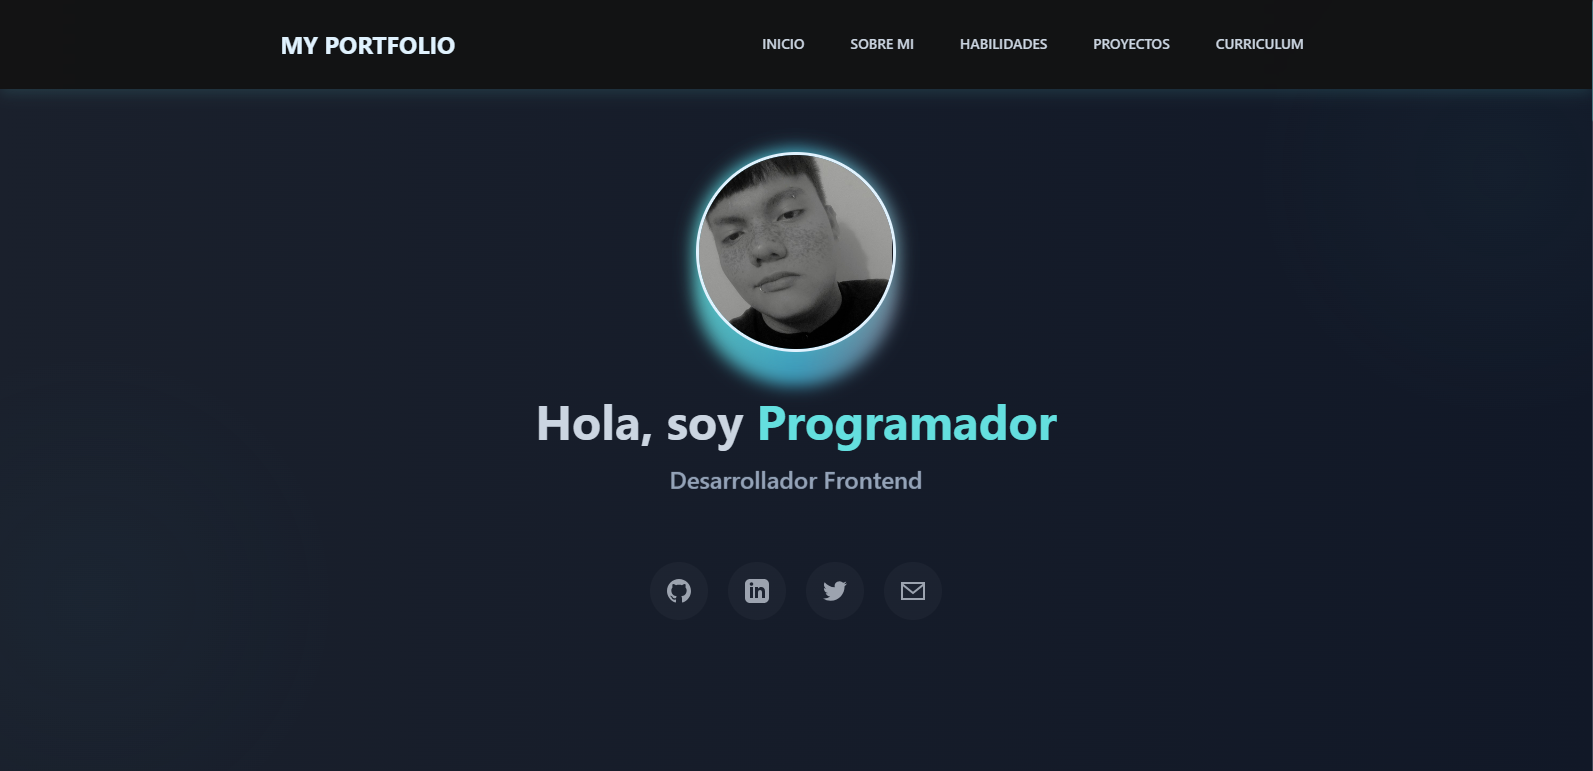
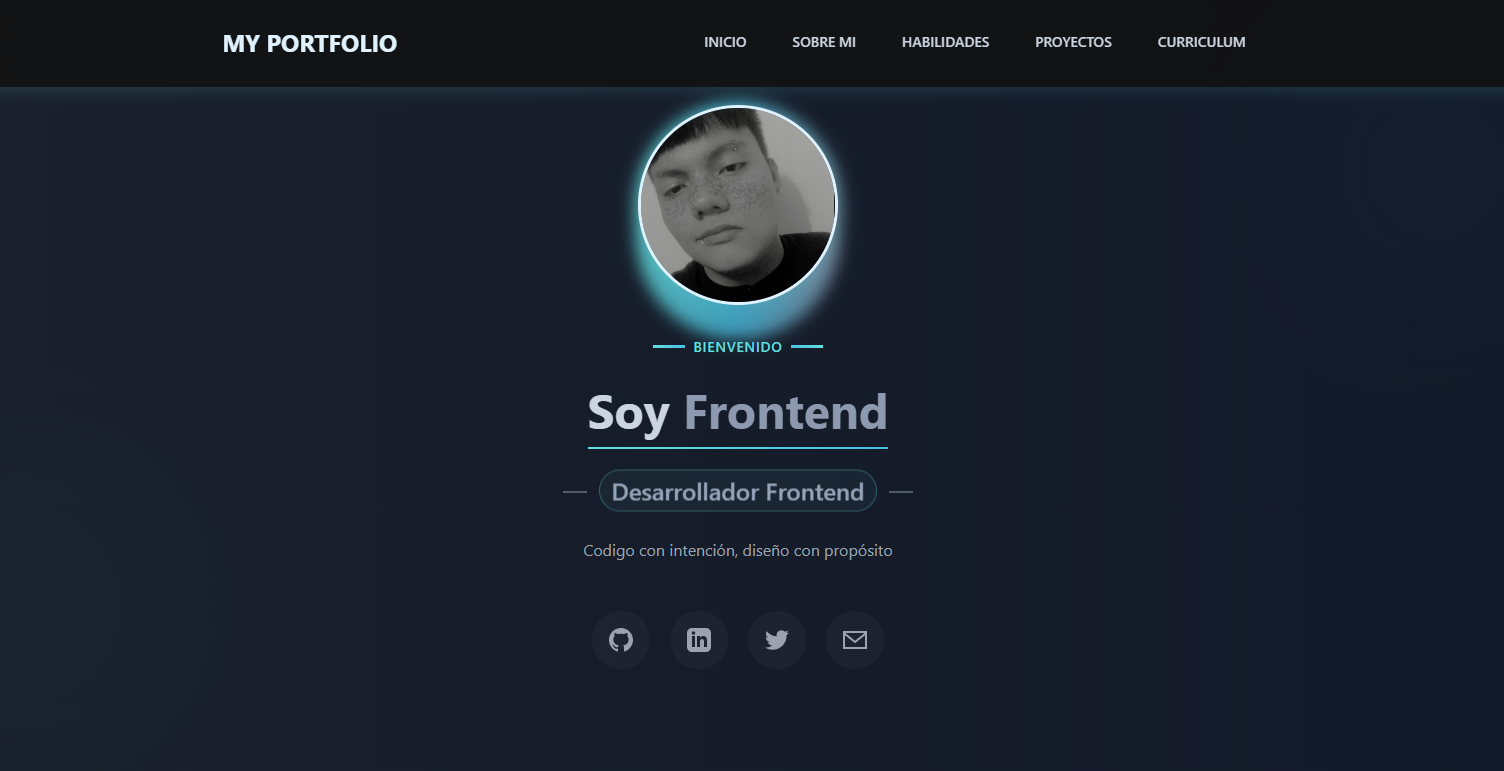
I created the projects section

diff --git a/src/App.jsx b/src/App.jsx
@@ -16,7 +16,7 @@ const ANIMATION_CONFIG = {
 };
 
 const TEXT_ANIMATIONS = [
-  { text: "Programador", color: "#64DFDF" },
+  { text: "Programmer", color: "#64DFDF" },
   { text: "Frontend", color: "#8D99AE" },
   { text: "Juan Jose", color: "#48BFE3" },
 ];
@@ -47,17 +47,17 @@ const SKILLS_DATA = {
 
 const PROJECTS_DATA = [
   {
-    title: "Sitio Web Misak",
-    description: "Un sitio web cultural sobre la comunidad Misak, desarrollado como proyecto en el SENA, donde me encargué del diseño y la creación de la interfaz.",
-    imgSrc: "public/images/misak.png",
+    title: "Misak website",
+    description: "A cultural website about the Misak community, developed as a project at SENA, where I was responsible for the design and interface.",
+    imgSrc: "././public/images/misak.png",
     tags: ["React", "JavaScript", "CSS", "API"],
     githubUrl: "https://github.com/jonathantombe/MisakGuambShop-Front",
     demoUrl: "https://misak-guamb-shop-front-qxyi.vercel.app/"
   },
   {
-    title: "Portafolio personal",
-    description: "Este es mi portafolio, el cual muestro mis habilidades sobre lo que he aprendido y lo que quiero aprender.",
-    imgSrc: "public/images/profile.png",
+    title: "Personal Portfolio",
+    description: "This is my personal portfolio, where I show my skills, what I’ve learned, and what I want to keep learning.",
+    imgSrc: "././public/images/profile.png",
     tags: ["React", "JavaScript", "CSS", "Tailwind"],
     githubUrl: "https://github.com/juanjuanjose/real-portfolio",
     demoUrl: "https://juanjuanjose.github.io/real-portfolio/"
@@ -174,10 +174,10 @@ function App() {
   useTextAnimation();
 
   const skillGroups = useMemo(() => [
-    { title: "Tecnologías principales", skills: SKILLS_DATA.main, emoji: "📦", color: "#64DFDF" },
-    { title: "Herramientas", skills: SKILLS_DATA.tools, emoji: "🛠", color: "#48BFE3" },
-    { title: "Servicios", skills: SKILLS_DATA.services, emoji: "☁", color: "#8D99AE" },
-    { title: "En proceso de aprendizaje", skills: SKILLS_DATA.learning, emoji: "🧠", color: "gray-400" }
+    { title: "Main Technologies", skills: SKILLS_DATA.main, emoji: "📦", color: "#64DFDF" },
+    { title: "Tools", skills: SKILLS_DATA.tools, emoji: "🛠", color: "#48BFE3" },
+    { title: "Services", skills: SKILLS_DATA.services, emoji: "☁", color: "#8D99AE" },
+    { title: "Currently Learning", skills: SKILLS_DATA.learning, emoji: "🧠", color: "gray-400" }
   ], []);
 
   return (
@@ -190,10 +190,10 @@ function App() {
           </div>
           <nav>
             <div className="flex-wrap justify-center py-[20px] gap-[25px] flex md:flex-row md:justify-center md:gap-[30px] md:items-center">
-              <NavLink href="#Home">INICIO</NavLink>
-              <NavLink href="#about">SOBRE MI</NavLink>
-              <NavLink href="#skills">HABILIDADES</NavLink>
-              <NavLink href="#projects">PROYECTOS</NavLink>
+              <NavLink href="#Home">HOME</NavLink>
+              <NavLink href="#about">ABOUT ME</NavLink>
+              <NavLink href="#skills">SKILLS</NavLink>
+              <NavLink href="#projects">PROJECTS</NavLink>
               <NavLink href="#curriculum">CURRICULUM</NavLink>
             </div>
           </nav>
@@ -215,112 +215,107 @@ function App() {
           />
         </div>
         
-        {/* Nueva sección de presentación moderna */}
-        <div className="flex flex-col items-center">
-          <div className="flex items-center gap-2 mb-4">
-            <div className="h-[3px] w-8 bg-gradient-to-r from-[#64DFDF] to-[#48BFE3]"></div>
-            <span className="text-[#64DFDF] text-sm uppercase tracking-wider font-medium">Bienvenido</span>
-            <div className="h-[3px] w-8 bg-gradient-to-r from-[#48BFE3] to-[#64DFDF]"></div>
-          </div>
-          
-          <h1 id="home--title" className="text-[28px] font-bold text-[--color-secondary] mb-2.5 md:text-[48px] text-center">
-            Soy <span id="title--name" className="text-[--color-bluewhite] relative inline-block">
-              <span className="text-[--color-bluewhite]">Juan Jose</span>
-              <span className="absolute -bottom-1 left-0 w-full h-[2px] bg-gradient-to-r from-[#64DFDF] to-[#48BFE3]"></span>
-            </span>
-          </h1>
-          
-          <div className="flex items-center gap-3 mt-4">
-            <div className="h-[2px] w-6 bg-[#8D99AE] opacity-50"></div>
-            <h3 className="text-xl text-[--color-primary] animate-[--animation-h2] sm:text-2xl px-3 py-1 border border-[rgba(100,223,223,0.3)] rounded-full bg-[rgba(100,223,223,0.05)]">
-              Desarrollador Frontend
-            </h3>
-            <div className="h-[2px] w-6 bg-[#8D99AE] opacity-50"></div>
-          </div>
-          
-          <p className="text-center max-w-[500px] mt-6 text-gray-400 leading-relaxed">
-            Codigo con intención, diseño con propósito
-          </p>
-        </div>
-
-        <div className="flex gap-[20px] mt-12 flex-wrap justify-center">
-          <SocialLinks />
-        </div>
-      </section>
-
-      {/* About Section */}
-      <section id="about" className="p-10 bg-gradient-to-b from-[#111827] to-[#0f172a]">
-        <Separator />
-        <div className={`max-w-[800px] my-0 mx-auto transition-all duration-1000 ${
-          isVisible.about ? 'opacity-100 translate-y-0' : 'opacity-0 translate-y-10'
-        }`}>
-          <div>
-            <h2 className="relative inline-block pb-2 mb-6">
-              <span className="relative z-10">Sobre mí</span>
-              <span className="absolute bottom-0 left-0 w-1/2 h-1 bg-gradient-to-r from-[#64DFDF] to-[#48BFE3]"></span>
-            </h2>
-            <p className="text-lg leading-relaxed mb-8">
-              Soy desarrollador web junior con una base sólida en HTML, CSS y JavaScript.
-              Me especializo en crear interfaces modernas, responsivas y accesibles, utilizando
-              frameworks como Tailwind CSS y bibliotecas como React. Actualmente sigo
-              perfeccionando mis habilidades enfocándome en la creación de experiencias
-              interactivas, visualmente atractivas y funcionales desde el frontend.
-            </p>
-
-            <div className="mt-10">
-              <h2 className="relative inline-block pb-2 mb-6">
-                <span className="relative z-10">Lugares de aprendizaje</span>
-                <span className="absolute bottom-0 left-0 w-1/2 h-1 bg-gradient-to-r from-[#48BFE3] to-[#8D99AE]"></span>
-              </h2>
-              
-              <div className="flex flex-col md:flex-row gap-6">
-                <div className="bg-[rgba(255,255,255,0.05)] p-6 mb-2 transition-all duration-300 relative rounded-lg hover:translate-y-[-5px] hover:shadow-[0_5px_15px_rgba(100,223,223,0.2)] border border-transparent hover:border-[rgba(100,223,223,0.2)] md:w-1/2">
-                  <div className="absolute top-0 right-0 bg-[#64DFDF] text-gray-800 text-xs font-bold px-3 py-1 rounded-bl-lg rounded-tr-lg">
-                    2021-2024
-                  </div>
-                  <h3 className="text-[#64DFDF] font-bold text-xl mb-3 mt-2">SENA</h3>
-                  <p className="text-gray-200">
-                    Durante mi formación de dos años en el SENA, adquirí sólidos
-                    conocimientos en desarrollo web, especializándome en HTML,
-                    CSS, JavaScript y React, con un enfoque en la creación de
-                    interfaces modernas y responsivas. En el proyecto formativo
-                    para la etapa de prácticas, fui responsable del diseño del
-                    sitio web Misak, el cual fue destacado por su propuesta
-                    innovadora, estética atractiva y representación cultural.
-                  </p>
-                  <img
-                    className="max-w-full h-14 rounded mt-3.5 absolute right-[0.94rem] bottom-[0.94rem] pt-4"
-                    src="./images/sena.png"
-                    alt="sena image"
-                  />
-                </div>
-                
-                <div className="bg-[rgba(255,255,255,0.05)] p-6 mb-2 transition-all duration-300 relative rounded-lg hover:translate-y-[-5px] hover:shadow-[0_5px_15px_rgba(100,223,223,0.2)] border border-transparent hover:border-[rgba(100,223,223,0.2)] md:w-1/2 md:mt-12">
-                  <div className="absolute top-0 right-0 bg-[#8D99AE] text-gray-800 text-xs font-bold px-3 py-1 rounded-bl-lg rounded-tr-lg">
-                    2019-2021
-                  </div>
-                  <h3 className="text-[#8D99AE] font-bold text-xl mb-3 mt-2">CASD</h3>
-                  <p className="text-gray-200">
-                    Durante los grados 10 y 11 en el CASD, cursé una formación
-                    tecnológica de dos años donde adquirí conocimientos en
-                    desarrollo de aplicaciones móviles con App Inventor,
-                    fundamentos de hardware y ciberseguridad, lo que me permitió
-                    desarrollar una base integral en tecnología y programación
-                    desde temprana edad.
-                  </p>
-                  <img
-                    className="max-w-full h-14 rounded mt-3.5 absolute right-[0.94rem] bottom-[0.94rem] pt-4"
-                    src="./images/casd.png"
-                    alt="casd image"
-                  />
-                </div>
-              </div>
+        {/* Modern introduction section */}
+          <div className="flex flex-col items-center">
+            <div className="flex items-center gap-2 mb-4">
+              <div className="h-[3px] w-8 bg-gradient-to-r from-[#64DFDF] to-[#48BFE3]"></div>
+              <span className="text-[#64DFDF] text-sm uppercase tracking-wider font-medium">Welcome</span>
+              <div className="h-[3px] w-8 bg-gradient-to-r from-[#48BFE3] to-[#64DFDF]"></div>
             </div>
+            
+            <h1 id="home--title" className="text-[28px] font-bold text-[--color-secondary] mb-2.5 md:text-[48px] text-center">
+              I am <span id="title--name" className="text-[--color-bluewhite] relative inline-block">
+                <span className="text-[--color-bluewhite]">Juan Jose</span>
+                <span className="absolute -bottom-1 left-0 w-full h-[2px] bg-gradient-to-r from-[#64DFDF] to-[#48BFE3]"></span>
+              </span>
+            </h1>
+            <div className="flex items-center gap-3 mt-4">
+              <div className="h-[2px] w-6 bg-[#8D99AE] opacity-50"></div>
+              <h3 className="text-xl text-[--color-primary] animate-[--animation-h2] sm:text-2xl px-3 py-1 border border-[rgba(100,223,223,0.3)] rounded-full bg-[rgba(100,223,223,0.05)]">
+                Frontend Developer
+              </h3>
+              <div className="h-[2px] w-6 bg-[#8D99AE] opacity-50"></div>
+            </div>
+            
+            <p className="text-center max-w-[500px] mt-6 text-gray-400 leading-relaxed">
+              Code with intention, design with purpose
+            </p>
           </div>
-        </div>
-      </section>
 
-      {/* Skills Section */}
+          <div className="flex gap-[20px] mt-12 flex-wrap justify-center">
+            <SocialLinks />
+          </div>
+              </section>
+
+              {/* About Section */}
+                <section id="about" className="p-10 bg-gradient-to-b from-[#111827] to-[#0f172a]">
+                  <Separator />
+                  <div className={`max-w-[800px] my-0 mx-auto transition-all duration-1000 ${
+                    isVisible.about ? 'opacity-100 translate-y-0' : 'opacity-0 translate-y-10'
+                  }`}>
+                    <div>
+                  <h2 className="relative inline-block pb-2 mb-6">
+                    <span className="relative z-10">About Me</span>
+                    <span className="absolute bottom-0 left-0 w-1/2 h-1 bg-gradient-to-r from-[#64DFDF] to-[#48BFE3]"></span>
+                  </h2>
+                  <p className="text-lg leading-relaxed mb-8">
+                    I am a junior web developer with a solid foundation in HTML, CSS, and JavaScript.
+                    I specialize in creating modern, responsive, and accessible interfaces using
+                    frameworks like Tailwind CSS and libraries like React. I am currently honing my
+                    skills, focusing on building interactive, visually appealing, and functional
+                    experiences from the frontend.
+                  </p>
+
+                  <div className="mt-10">
+                    <h2 className="relative inline-block pb-2 mb-6">
+                      <span className="relative z-10">Learning Places</span>
+                      <span className="absolute bottom-0 left-0 w-1/2 h-1 bg-gradient-to-r from-[#48BFE3] to-[#8D99AE]"></span>
+                    </h2>
+                    
+                    <div className="flex flex-col md:flex-row gap-6">
+                      <div className="bg-[rgba(255,255,255,0.05)] p-6 mb-2 transition-all duration-300 relative rounded-lg hover:translate-y-[-5px] hover:shadow-[0_5px_15px_rgba(100,223,223,0.2)] border border-transparent hover:border-[rgba(100,223,223,0.2)] md:w-1/2">
+                    <div className="absolute top-0 right-0 bg-[#64DFDF] text-gray-800 text-xs font-bold px-3 py-1 rounded-bl-lg rounded-tr-lg">
+                      2021-2024
+                    </div>
+                    <h3 className="text-[#64DFDF] font-bold text-xl mb-3 mt-2">SENA</h3>
+                    <p className="text-gray-200">
+                      During my two-year training at SENA, I gained solid knowledge in web development,
+                      specializing in HTML, CSS, JavaScript, and React, with a focus on creating modern
+                      and responsive interfaces. In the formative project for the internship stage, I was
+                      responsible for the design of the Misak website, which was recognized for its
+                      innovative proposal, attractive aesthetics, and cultural representation.
+                    </p>
+                    <img
+                      className="max-w-full h-14 rounded mt-3.5 absolute right-[0.94rem] bottom-[0.94rem] pt-4"
+                      src="./images/sena.png"
+                      alt="sena image"
+                    />
+                      </div>
+                      
+                      <div className="bg-[rgba(255,255,255,0.05)] p-6 mb-2 transition-all duration-300 relative rounded-lg hover:translate-y-[-5px] hover:shadow-[0_5px_15px_rgba(100,223,223,0.2)] border border-transparent hover:border-[rgba(100,223,223,0.2)] md:w-1/2 md:mt-12">
+                    <div className="absolute top-0 right-0 bg-[#8D99AE] text-gray-800 text-xs font-bold px-3 py-1 rounded-bl-lg rounded-tr-lg">
+                      2019-2021
+                    </div>
+                    <h3 className="text-[#8D99AE] font-bold text-xl mb-3 mt-2">CASD</h3>
+                    <p className="text-gray-200">
+                      During grades 10 and 11 at CASD, I completed a two-year technological training
+                      program where I acquired knowledge in mobile application development with App
+                      Inventor, hardware fundamentals, and cybersecurity, which allowed me to develop
+                      a comprehensive foundation in technology and programming from an early age.
+                    </p>
+                    <img
+                      className="max-w-full h-14 rounded mt-3.5 absolute right-[0.94rem] bottom-[0.94rem] pt-4"
+                      src="./images/casd.png"
+                      alt="casd image"
+                    />
+                      </div>
+                    </div>
+                  </div>
+                    </div>
+                  </div>
+                </section>
+
+                {/* Skills Section */}
       <section id="skills" className="py-24 px-[5%] bg-gradient-to-b from-[#0f172a] to-[#0f1729]">
         <Separator />
         <div className={`transition-all duration-1000 ${
@@ -328,7 +323,7 @@ function App() {
         }`}>
           <div className="max-w-[800px] my-0 mx-auto">
             <h2 className="relative inline-block pb-2 mb-6">
-              <span className="relative z-10">Mis habilidades</span>
+              <span className="relative z-10">My Skills</span>
               <span className="absolute bottom-0 left-0 w-1/2 h-1 bg-gradient-to-r from-[#8D99AE] to-[#64DFDF]"></span>
             </h2>
             
@@ -372,12 +367,12 @@ function App() {
         <div className="curriculum_inner">
           <div className="max-w-[800px] my-0 mx-auto flex justify-center items-center flex-col">
             <h2 className="relative inline-block pb-2 mb-6">
-              <span className="relative z-10">Descarga mi hoja de vida</span>
+              <span className="relative z-10">Download my resume</span>
               <span className="absolute bottom-0 left-0 w-1/2 h-1 bg-gradient-to-r from-[#48BFE3] to-[#64DFDF]"></span>
             </h2>
             <p className="text-center max-w-[600px] mb-6">
-              Si deseas conocer más sobre mi formación académica y habilidades,
-              puedes descargar mi hoja de vida en el siguiente botón.
+              If you want to know more about my academic background and skills,
+              you can download my resume using the button below.
             </p>
             <svg
               className="text-[#64DFDF] text-[54px] transition-all duration-300 m-8 animate-bounce text-center"
@@ -410,7 +405,7 @@ function App() {
                   clipRule="evenodd"
                 />
               </svg>
-              Descargar CV
+              Download CV
             </a>
           </div>
         </div>
@@ -428,7 +423,7 @@ function App() {
             </div>
           </div>
           <div className="h-px w-full bg-gradient-to-r from-transparent via-[rgba(100,223,223,0.3)] to-transparent my-6"></div>
-          <p className="text-gray-400">© 2025 Juan Jose Perez Buritica - Todos los derechos reservados</p>
+          <p className="text-gray-400">© 2025 Juan Jose Perez Buritica - All rights reserved</p>
         </div>
       </footer>
     </>

diff --git a/src/components/Social/Social.jsx b/src/components/Social/Social.jsx
@@ -21,18 +21,8 @@ const SocialLinks = ({ small = false }) => {
       color: "#6B8BFF"
     },
     {
-      name: "Twitter",
-      url: "https://twitter.com/juanjose",
-      icon: (
-        <svg className="w-6 h-6" fill="currentColor" viewBox="0 0 24 24">
-          <path d="M23.953 4.57a10 10 0 01-2.825.775 4.958 4.958 0 002.163-2.723c-.951.555-2.005.959-3.127 1.184a4.92 4.92 0 00-8.384 4.482C7.69 8.095 4.067 6.13 1.64 3.162a4.822 4.822 0 00-.666 2.475c0 1.71.87 3.213 2.188 4.096a4.904 4.904 0 01-2.228-.616v.06a4.923 4.923 0 003.946 4.827 4.996 4.996 0 01-2.212.085 4.936 4.936 0 004.604 3.417 9.867 9.867 0 01-6.102 2.105c-.39 0-.779-.023-1.17-.067a13.995 13.995 0 007.557 2.209c9.053 0 13.998-7.496 13.998-13.985 0-.21 0-.42-.015-.63A9.935 9.935 0 0024 4.59z"/>
-        </svg>
-      ),
-      color: "#FF6B8B"
-    },
-    {
       name: "Email",
-      url: "mailto:juanjose@example.com",
+      url: "mailto:juanjoperez2121@gmail.com",
       icon: (
         <svg className="w-6 h-6" fill="currentColor" viewBox="0 0 24 24">
           <path d="M0 3v18h24v-18h-24zm21.518 2l-9.518 7.713-9.518-7.713h19.036zm-19.518 14v-11.817l10 8.104 10-8.104v11.817h-20z"/>

diff --git a/src/components/ProjectCard/ProjectCard.jsx b/src/components/ProjectCard/ProjectCard.jsx
@@ -44,7 +44,7 @@ const ProjectCard = ({ title, description, imgSrc, tags, githubUrl, demoUrl }) =
             rel="noopener noreferrer"
             className="text-sm px-4 py-2 bg-[#6bffd0] text-[#0f172a] rounded hover:bg-[#5ee2ba] font-medium transition-colors"
           >
-            Ver demo
+            See Demo
           </a>
 
           <a
@@ -56,7 +56,7 @@ const ProjectCard = ({ title, description, imgSrc, tags, githubUrl, demoUrl }) =
             <svg className="w-5 h-5 mr-1" viewBox="0 0 24 24" fill="currentColor">
               <path d="M12 0c-6.626 0-12 5.373-12 12...z" />
             </svg>
-            Código
+            View Code
           </a>
         </div>
       </div>
